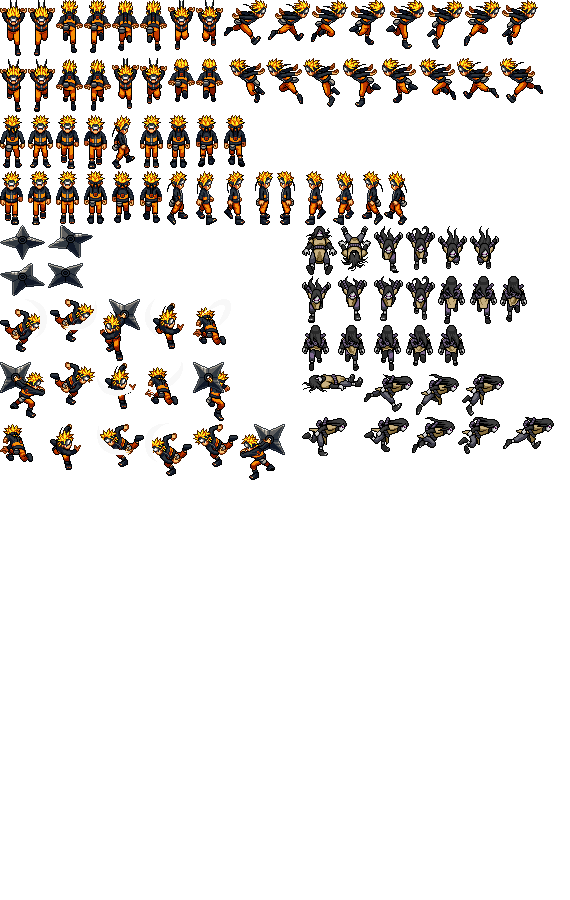
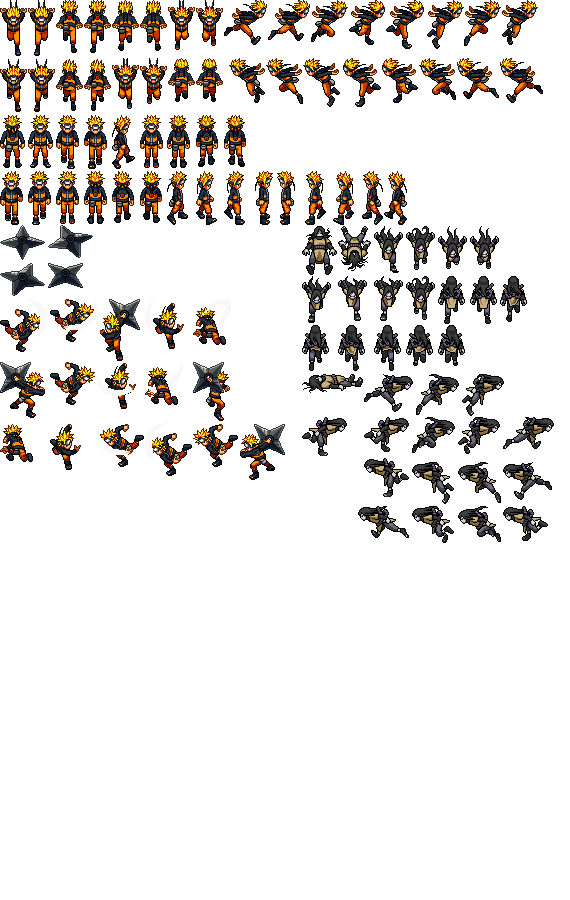
attack animation

Changed region(s): [[0.6263, 0.4978, 0.9544, 0.6222]]

diff --git a/js/gameFunction/graphics/asset.js b/js/gameFunction/graphics/asset.js
@@ -1,16 +1,16 @@
 var Asset = function() {
     // sprites
     // player
-    this.spr_player;
     this.spr_player_walk = new Array(4);
     this.spr_player_sprint = new Array(4);
-
+    this.spr_enemy_walk = new Array(4);
+    this.spr_player_attack = new Array(4);
+    this.spr_Bullet = new Array(4);
     // initialize assets
 
     this._init = function() {
         // player idle
         // player walk
-        this.spr_player = new Sprite(img, 0, 0, 28, 56);
         this.spr_player_walk[0] = new Array(6);
         this.spr_player_walk[1] = new Array(6);
         this.spr_player_walk[2] = new Array(6);
@@ -75,10 +75,74 @@ var Asset = function() {
         this.spr_player_sprint[3][5] = new Sprite(img, 28 * 1, 56 * 1, 28, 56);
         this.spr_player_sprint[3][6] = new Sprite(img, 28 * 1, 56 * 0, 28, 56);
         this.spr_player_sprint[3][7] = new Sprite(img, 28 * 6, 56 * 0, 28, 56);
-        /*for (var i = 0; i < 8; ++i) {
-            this.spr_player_walk[0][i] = new Sprite(img_player_walk_left, i*64, 0, 64, 72);
-            this.spr_player_walk[1][7-i] = new Sprite(img_player_walk, (7-i)*64, 0, 64, 72);
-        }*/
+
+        this.spr_enemy_walk[0] = new Array(8);
+        this.spr_enemy_walk[1] = new Array(8);
+        this.spr_enemy_walk[2] = new Array(8);
+        this.spr_enemy_walk[3] = new Array(8);
+
+        this.spr_enemy_walk[3][1] = new Sprite(img, 25 * 15, 56 * 4, 29, 56);
+        this.spr_enemy_walk[3][7] = new Sprite(img, 27 * 15, 56 * 4, 29, 56);
+        this.spr_enemy_walk[3][0] = new Sprite(img, 29 * 15, 56 * 4, 32, 56);
+        this.spr_enemy_walk[3][4] = new Sprite(img, 31.2 * 15, 56 * 4, 32, 56);
+        this.spr_enemy_walk[3][5] = new Sprite(img, 20 * 15, 54 * 5, 32, 56);
+        this.spr_enemy_walk[3][2] = new Sprite(img, 22.4 * 15, 54 * 5, 32, 56);
+        this.spr_enemy_walk[3][6] = new Sprite(img, 25 * 15, 54 * 5, 32, 56);
+        this.spr_enemy_walk[3][3] = new Sprite(img, 27 * 15, 54 * 5, 32, 56);
+
+        this.spr_enemy_walk[2][4] = new Sprite(img, 29 * 15, 54 * 5, 32, 56);
+        this.spr_enemy_walk[2][0] = new Sprite(img, 31 * 15, 54 * 5, 32, 56);
+        this.spr_enemy_walk[2][3] = new Sprite(img, 33.2 * 15, 54 * 5, 32, 56);
+        this.spr_enemy_walk[2][5] = new Sprite(img, 20 * 15, 53.3 * 6, 32, 56);
+        this.spr_enemy_walk[2][6] = new Sprite(img, 22.4 * 15, 53.3 * 6, 32, 56);
+        this.spr_enemy_walk[2][1] = new Sprite(img, 25 * 15, 53.3 * 6, 32, 56);
+        this.spr_enemy_walk[2][2] = new Sprite(img, 27 * 15, 53.3 * 6, 32, 56);
+        this.spr_enemy_walk[2][7] = new Sprite(img, 29 * 15, 53.3 * 6, 32, 56);
+
+        this.spr_enemy_walk[1][1] = new Sprite(img, 24.4 * 15, 54 * 7.7, 46, 40);
+        this.spr_enemy_walk[1][4] = new Sprite(img, 27.4 * 15, 54 * 7.7, 46, 40);
+        this.spr_enemy_walk[1][3] = new Sprite(img, 30.4 * 15, 54 * 7.7, 46, 40);
+        this.spr_enemy_walk[1][2] = new Sprite(img, 20 * 15, 54 * 7.7, 46, 40);
+        this.spr_enemy_walk[1][6] = new Sprite(img, 24.4 * 15, 54 * 7.7, 46, 40);
+        this.spr_enemy_walk[1][0] = new Sprite(img, 27.4 * 15, 54 * 7.7, 46, 40);
+        this.spr_enemy_walk[1][7] = new Sprite(img, 30.4 * 15, 54 * 7.7, 46, 40);
+        this.spr_enemy_walk[1][5] = new Sprite(img, 33.6 * 15, 54 * 7.7, 46, 40);
+
+        this.spr_enemy_walk[0][2] = new Sprite(img, 24.2 * 15, 54 * 8.5, 45, 40);
+        this.spr_enemy_walk[0][3] = new Sprite(img, 27.2 * 15, 54 * 8.5, 45, 40);
+        this.spr_enemy_walk[0][4] = new Sprite(img, 30.2 * 15, 54 * 8.5, 45, 40);
+        this.spr_enemy_walk[0][1] = new Sprite(img, 33.8 * 15, 54 * 8.5, 45, 40);
+        this.spr_enemy_walk[0][5] = new Sprite(img, 24.2 * 15, 54 * 9.3, 45, 40);
+        this.spr_enemy_walk[0][7] = new Sprite(img, 27.2 * 15, 54 * 9.3, 45, 40);
+        this.spr_enemy_walk[0][0] = new Sprite(img, 30.2 * 15, 54 * 9.3, 45, 40);
+        this.spr_enemy_walk[0][6] = new Sprite(img, 33.4 * 15, 54 * 9.3, 45, 40);
+
+        this.spr_player_attack[0] = new Array(4);
+        this.spr_player_attack[1] = new Array(4);
+        this.spr_player_attack[2] = new Array(4);
+        this.spr_player_attack[3] = new Array(4);
+
+        this.spr_player_attack[0][0] = new Sprite(img, 240, 420, 50, 60);
+        this.spr_player_attack[0][1] = new Sprite(img, 145, 420, 48, 60);
+        this.spr_player_attack[0][2] = new Sprite(img, 95, 420, 48, 60);
+        this.spr_player_attack[0][3] = new Sprite(img, 192, 420, 48, 60);
+        this.spr_player_attack[1][0] = new Sprite(img, 0, 360, 50, 60);
+        this.spr_player_attack[1][1] = new Sprite(img, 0, 300, 50, 60);
+        this.spr_player_attack[1][2] = new Sprite(img, 50, 300, 50, 60);
+        this.spr_player_attack[1][3] = new Sprite(img, 50, 360, 46, 60);
+        this.spr_player_attack[2][0] = new Sprite(img, 192, 360, 48, 60);
+        this.spr_player_attack[2][1] = new Sprite(img, 192, 295, 48, 60);
+        this.spr_player_attack[2][2] = new Sprite(img, 140, 360, 48, 60);
+        this.spr_player_attack[2][3] = new Sprite(img, 0, 420, 48, 60);
+        this.spr_player_attack[3][0] = new Sprite(img, 100, 300, 45, 60);
+        this.spr_player_attack[3][1] = new Sprite(img, 145, 300, 48, 60);
+        this.spr_player_attack[3][2] = new Sprite(img, 95, 360, 50, 60);
+        this.spr_player_attack[3][3] = new Sprite(img, 48, 420, 48, 60);
+
+        this.spr_Bullet[0] = new Sprite(img, 0, 56 * 4, 45, 40);
+        this.spr_Bullet[2] = new Sprite(img, 3 * 15, 56 * 4, 45, 40);
+        this.spr_Bullet[1] = new Sprite(img, 0, 51.8 * 5, 45, 40);
+        this.spr_Bullet[3] = new Sprite(img, 3 * 15, 51.8 * 5, 45, 40);
 
     }
 }

diff --git a/js/gameFunction/gameobject/player.js b/js/gameFunction/gameobject/player.js
@@ -23,9 +23,29 @@ var Player = function() {
         new Animation(7, this.handler._getAsset().spr_player_sprint[3]),
     ];
 
+    this.attack_animation = [
+        new Animation(10, this.handler._getAsset().spr_player_attack[0]),
+        new Animation(10, this.handler._getAsset().spr_player_attack[1]),
+        new Animation(10, this.handler._getAsset().spr_player_attack[2]),
+        new Animation(10, this.handler._getAsset().spr_player_attack[3]),
+    ];
+
     this.currentAnimation = null;
 
     this._tick = function() {
+
+        if (this.state === PLAYERSTATE.ATTACKING) {
+            console.log(this.face)
+            this.attack_animation[this.face]._tick();
+            console.log(this.attack_animation[this.face].index)
+            if (this.attack_animation[this.face].index === 3) {
+                this.state = PLAYERSTATE.IDLING;
+                this.currentAnimation = null;
+                this.attack_animation[this.face].index = 0;
+            }
+            return;
+        }
+
         this.hspeed = this.handler._getKeyManager().rightKey - this.handler._getKeyManager().leftKey;
         this.vspeed = this.handler._getKeyManager().downKey - this.handler._getKeyManager().upKey;
 
@@ -42,9 +62,9 @@ var Player = function() {
             this.currentAnimation = null;
         }
 
-        var scale = 1;
-        if (this.handler._getKeyManager().shitfKey === 1) {
-            scale = 1.6;
+        var temp = this.speed;
+        if (this.handler._getKeyManager().shitfKey === 1 && (this.vspeed !== 0 || this.hspeed !== 0)) {
+            this.speed *= 1.6;
             this.state = PLAYERSTATE.SPRINTING;
             this.currentAnimation = this.sprint_animation[this.face];
         }
@@ -56,22 +76,24 @@ var Player = function() {
 
         var obstacles = this.handler._getObstacles();
 
-        var enemies = this.handler._getEnemies();
-
         if (!this.collideArray(obstacles)) {
-            this.x += scale * this.hspeed * this.speed;
-            this.y += scale * this.vspeed * this.speed;
+            this.x += this.hspeed * this.speed;
+            this.y += this.vspeed * this.speed;
         }
+
+        this.speed = temp;
 
         this.createBullet = this.handler._getKeyManager().shootKey;
         var shootingAlarmResult = this.shootingAlarm._tick();
         if ((shootingAlarmResult === true || shootingAlarmResult === null ) && this.createBullet === 1) {
-            var BULLET = new gameObject(this.x, this.y, new Rectangle(0, 0, 10, 10), 8, this.handler);
+            var BULLET = new gameObject(this.x-(this.face===DIRECTION.RIGHT?15:0), this.y, new Rectangle(5, 5, 30, 30), 8, this.handler);
             Bullet.prototype = BULLET;
             var bullet = new Bullet(this.face, TEAM.ONE);
-            bullet._init();
+            this.face = bullet._init();
             this.handler._getBullets().push(bullet);
             this.shootingAlarm._init(10);
+            this.state = PLAYERSTATE.ATTACKING;
+            this.currentAnimation = this.attack_animation[this.face];
         }
 
         if (this.currentAnimation !== null) this.currentAnimation._tick();
@@ -79,10 +101,8 @@ var Player = function() {
     };
 
     this._render = function(ctx) {
-        ctx.fillStyle = '#ffffff';
-        ctx.fillRect(this.x+this.bound.x, this.y+this.bound.y, this.bound.width, this.bound.height);
 
-        if (this.vspeed === 0 && this.hspeed === 0) {
+        if (this.state === PLAYERSTATE.IDLING) {
             this.walk_animation[this.face]._getFrameAt(0).draw(ctx, this.x, this.y);
         } else {
             this.currentAnimation._getFrame().draw(ctx, this.x, this.y);

diff --git a/js/gameFunction/gameobject/enemy.js b/js/gameFunction/gameobject/enemy.js
@@ -3,13 +3,28 @@ var Enemy = function () {
     this.face = 2;
     this.team = TEAM.TWO;
 
-    this.isSolid = false;
+    this.currentAnimation = null;
+
+    this.walk_animation = [
+        new Animation(7, this.handler._getAsset().spr_enemy_walk[0]),
+        new Animation(7, this.handler._getAsset().spr_enemy_walk[1]),
+        new Animation(7, this.handler._getAsset().spr_enemy_walk[2]),
+        new Animation(7, this.handler._getAsset().spr_enemy_walk[3])
+    ];
 
     this._tick = function() {
         var playerX = this.handler._getPlayer().x,
             playerY = this.handler._getPlayer().y;
         this.hspeed = this.x - playerX >= 5?-1:(this.x - playerX <= -5?1:0);
         this.vspeed = this.y - playerY >= 5?-1:(this.y - playerY <= -5?1:0);
+
+        if (this.hspeed !== 0) {
+            this.face = this.hspeed / 2 + 0.5;
+            this.currentAnimation = this.walk_animation[this.face];
+        } else if (this.vspeed !== 0) {
+            this.face = this.vspeed / 2 + 2.5;
+            this.currentAnimation = this.walk_animation[this.face];
+        }
 
         if (this.hspeed !== 0 && this.vspeed !== 0) {
             this.hspeed /= 1.414;
@@ -22,12 +37,18 @@ var Enemy = function () {
             this.x += this.hspeed * this.speed;
             this.y += this.vspeed * this.speed;
         }
+        if (this.currentAnimation !== null) this.currentAnimation._tick();
 
     };
 
     this._render = function(ctx) {
-        ctx.fillStyle = 'blue';
-        ctx.fillRect(this.x, this.y, 30, 30);
+        if (this.hspeed === 0 && this.vspeed === 0) {
+            this.walk_animation[this.face]._getFrameAt(0).draw(ctx, this.x, this.y);
+        } else {
+            this.currentAnimation._getFrame().draw(ctx, this.x, this.y);
+        }
+        //ctx.fillStyle = 'blue';
+        //ctx.fillRect(this.bound.x+this.x, this.bound.y+this.y, this.bound.width, this.bound.height);
     };
 
 };

diff --git a/js/gameFunction/gameobject/bullet.js b/js/gameFunction/gameobject/bullet.js
@@ -5,6 +5,8 @@ var Bullet = function (face, team) {
     this.vspeed = this.face<2?0:(this.face===DIRECTION.UP?-1:1);
     this.hspeed = this.face>1?0:(this.face===DIRECTION.LEFT?-1:1);
 
+    this.animation = new Animation(5, this.handler._getAsset().spr_Bullet);
+
     this._init = function() {
         var posX = this.handler._getKeyManager().mouseX;
         var posY = this.handler._getKeyManager().mouseY;
@@ -17,6 +19,15 @@ var Bullet = function (face, team) {
             this.vspeed = vDiff / hypotenuse;
             this.hspeed = hDiff / hypotenuse;
         }
+
+        var angle = this.vspeed/this.hspeed;
+
+        if (angle > 1 || angle < -1) {
+            return this.vspeed>0?DIRECTION.DOWN:DIRECTION.UP;
+        } else {
+            return this.hspeed>0?DIRECTION.RIGHT:DIRECTION.LEFT;
+        }
+
     };
 
     this._tick = function() {
@@ -41,10 +52,17 @@ var Bullet = function (face, team) {
 
         this.x += this.speed * this.hspeed;
         this.y += this.speed * this.vspeed;
+
+        this.animation._tick();
+
+        if (this.x < -100 || this.x > WIDTH+100 || this.y < -100 || this.y > HEIGHT+100) this.destroyed = true;
     };
 
     this._render = function(ctx) {
-        ctx.fillStyle = '#ffffff';
-        ctx.fillRect(this.x+20, this.y+20, 10, 10);
+
+        this.animation._getFrame().draw(ctx, this.x, this.y);
+
+        //ctx.fillStyle = '#ffffff';
+        //ctx.fillRect(this.x+this.bound.x, this.y+this.bound.y, this.bound.width, this.bound.height);
     };
 };

diff --git a/js/gameFunction/game.js b/js/gameFunction/game.js
@@ -29,7 +29,7 @@ var Game = function() {
     this._generateEnemy = function (level) {
         // set level later
         this.enemies = [];
-        for (var i = 0; i < 5; ++i) {
+        for (var i = 0; i < (level || 5); ++i) {
             var xpos = Math.random() * WIDTH;
             var ENEMY = new gameObject(xpos, -50, new Rectangle(0, 0, 30, 30), 3, this.handler);
             Enemy.prototype = ENEMY;

diff --git a/js/gameFunction/input/keyManager.js b/js/gameFunction/input/keyManager.js
@@ -36,7 +36,7 @@ function KeyManager() {
         this.leftKey = this.keys[KEYEVENT.VK_LEFT];
         this.rightKey = this.keys[KEYEVENT.VK_RIGHT];
         this.shitfKey = this.keys[KEYEVENT.SHIFT];
-        this.shootKey = this.keys[KEYEVENT.SHOOT];
+        this.shootKey = this.keys[KEYEVENT.SPACE];
     };
 
 };
